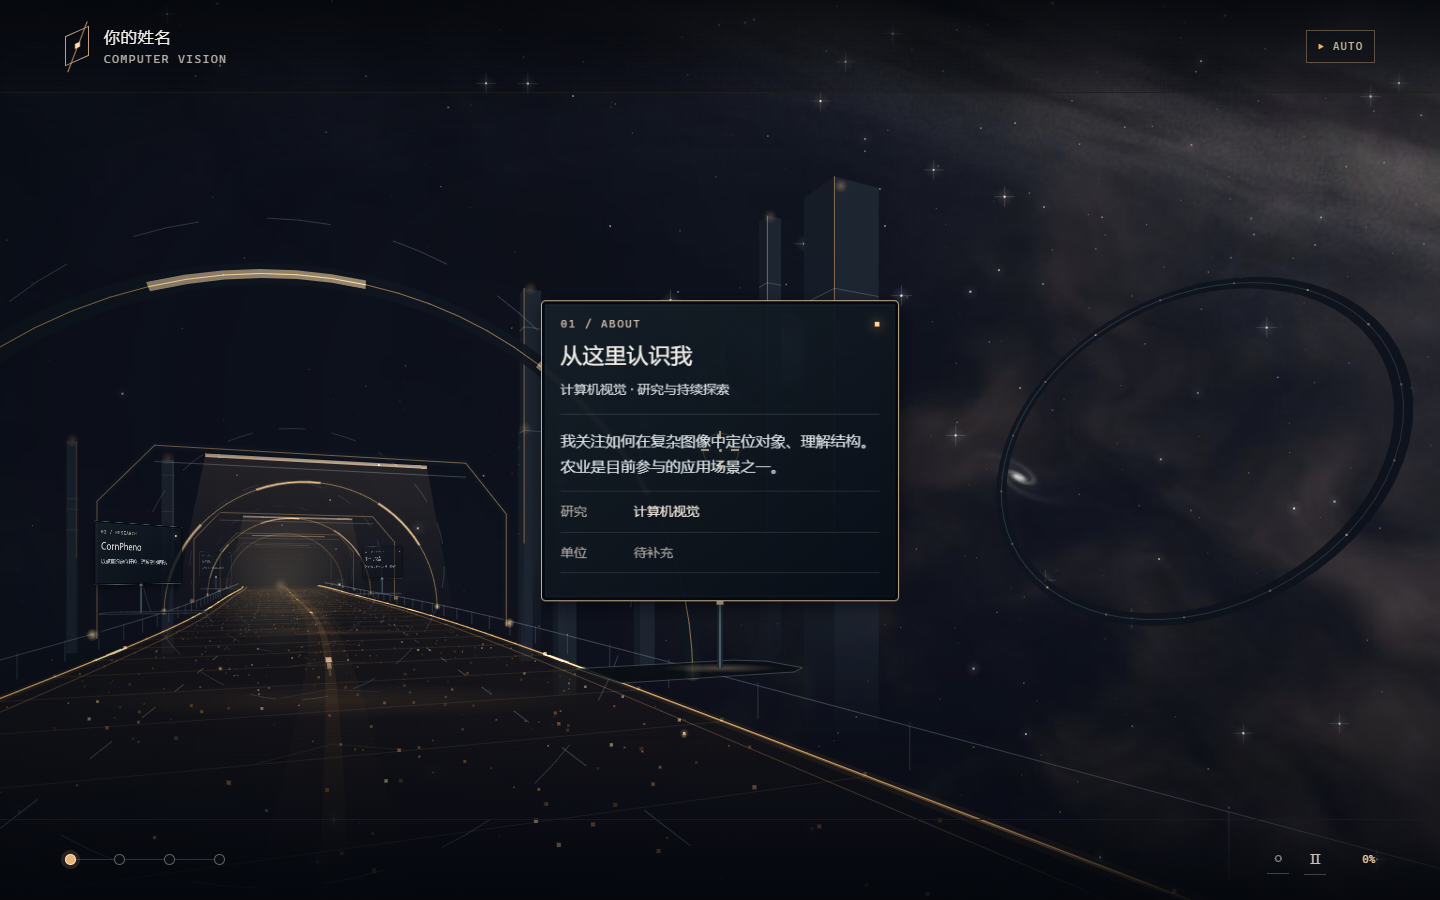
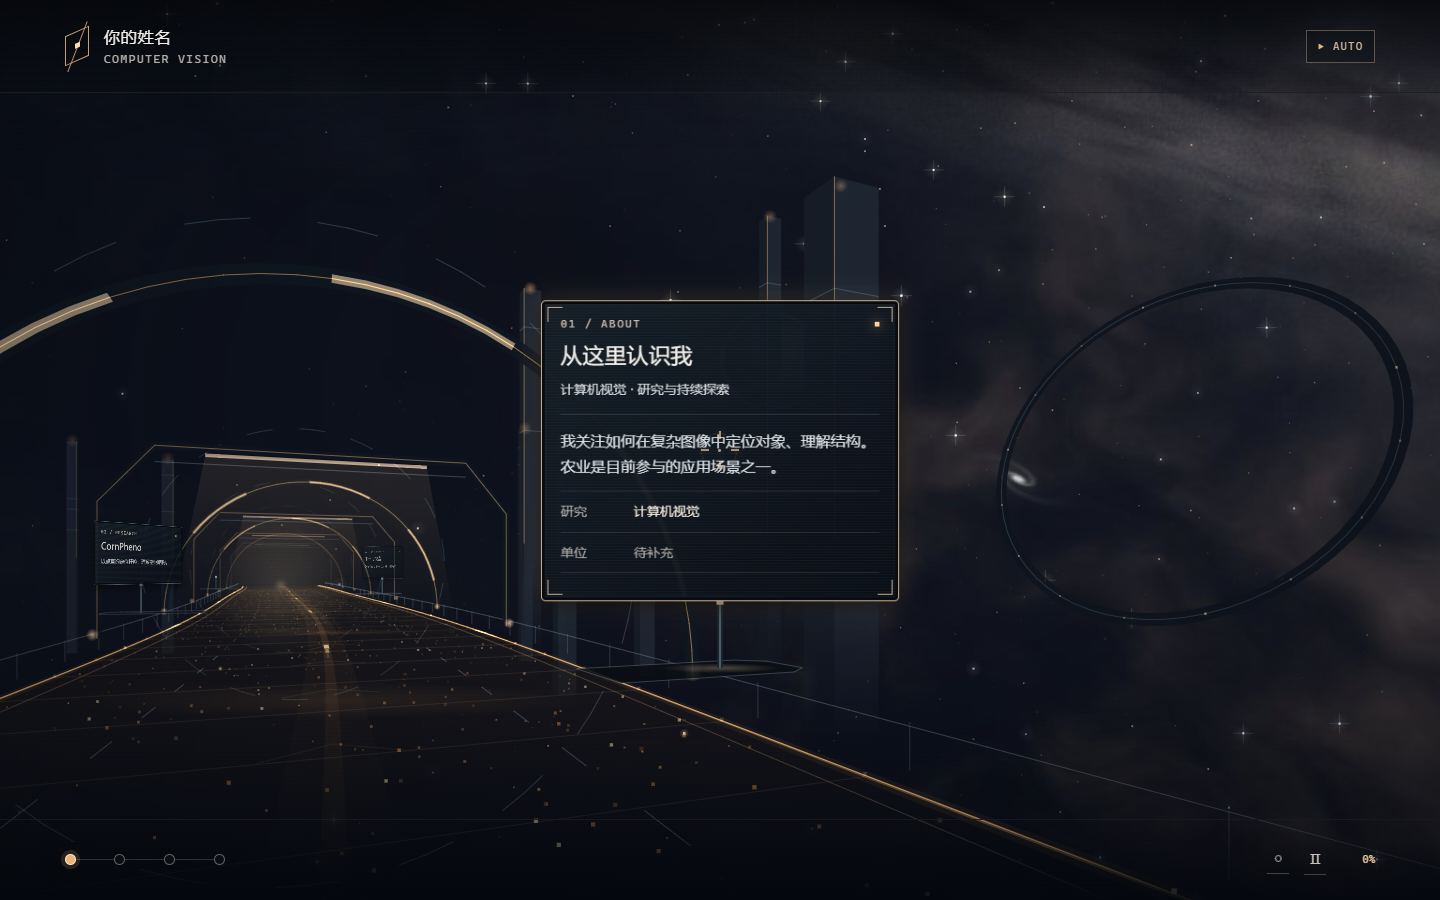
README: animated arrival preview; refresh screenshots
- previews/arrival.webp (549 KB): the arrival as it plays, recorded from the
  page, now at the top of the README
- Screenshots regenerated after the arrival and title decode have finished

diff --git a/README.md b/README.md
@@ -2,7 +2,7 @@
 
 一份沿着光与粒子之路前进的交互式个人简历：滚动前进，鼠标即视角，屏幕中心的十字准心对准路边显示器时，屏幕会在原位转向你并展开内容。背景是一张随视角和道路转动的 360° 全景星空。
 
-![桌面首屏](previews/index-desktop.png)
+![开场：从超空间减速抵达，能量波把道路由近到远点亮，标题从乱码解码成正文](previews/arrival.webp)
 
 ## 在线查看
 
@@ -44,7 +44,7 @@ assets/sky-panorama.js  全景星空（WebGL）、星星、行星与流星
 assets/effects.js       标题与路牌的文字解码效果
 assets/monitors.js      路边显示器的固定底座、转动与展开
 assets/*.css            样式
-previews/               预览截图
+previews/               预览截图与开场动画（arrival.webp）
 starway-standalone.html 单文件版（由 tools/build-single.cjs 生成）
 tools/build-single.cjs  生成单文件版
 ```
